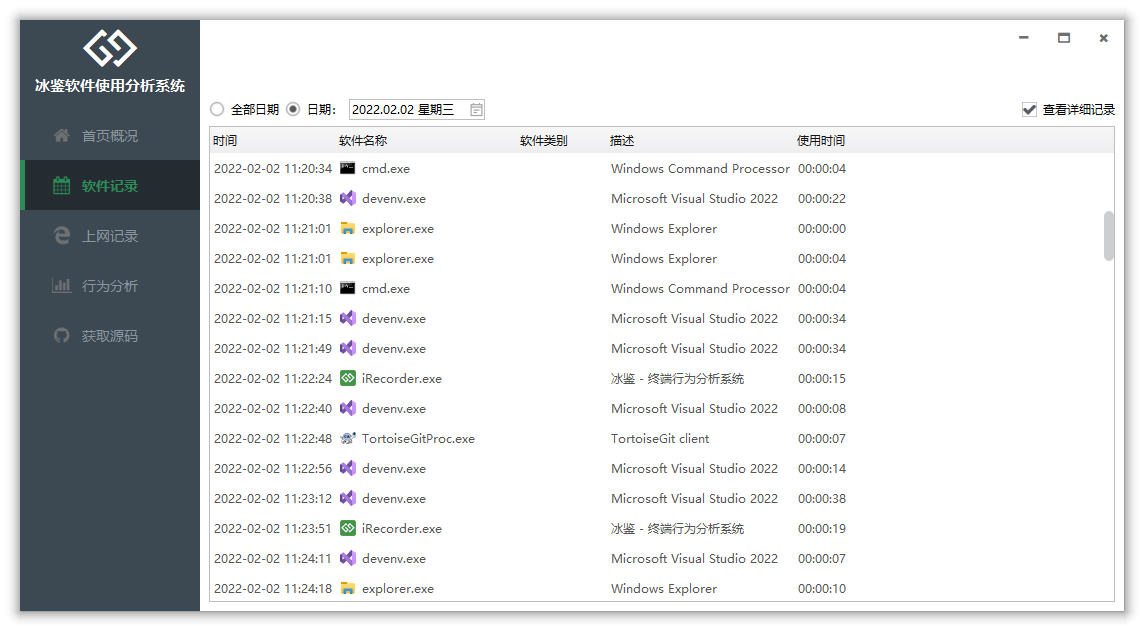
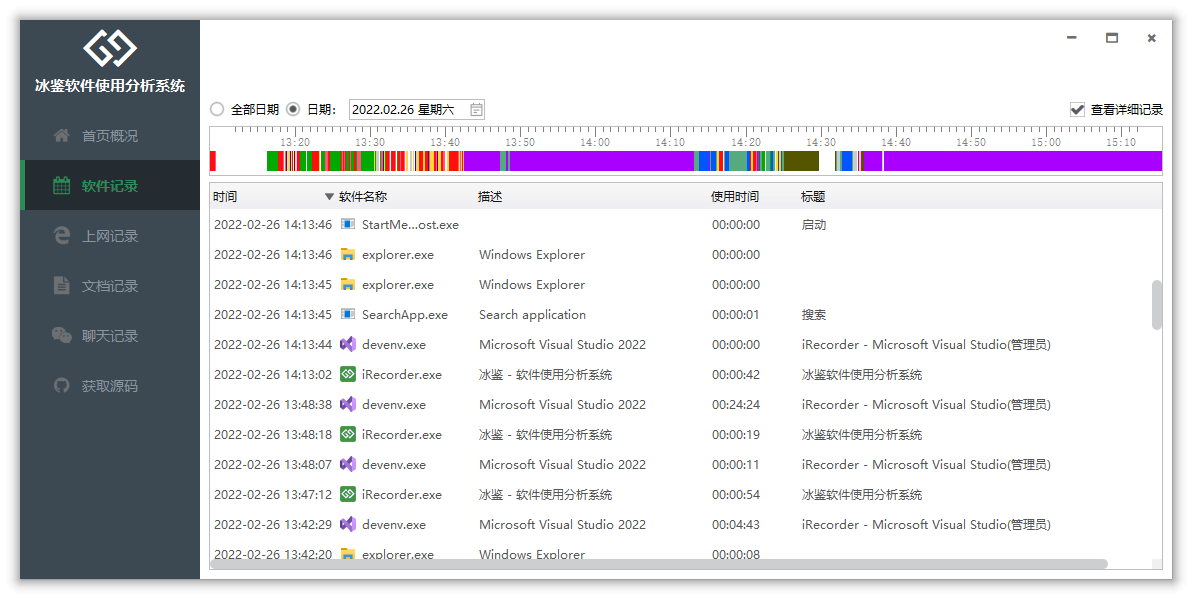
add iRecorder

diff --git a/docs/irecorder/SDK.md b/docs/irecorder/SDK.md
@@ -1,0 +1,103 @@
+---
+title: iRecorderSDK
+order: 1
+nav:
+  title: 冰鉴
+  order: 3
+---
+
+## 简介
+
+**iRecorderSDK** 是一款用于记录终端软件使用时间的开发套件。
+
+可以方便的统计用户软件、上网、操作文档、聊天的使用时间。适用于软件行为分析、上网行为分析等效率软件。可以分析工作是否频繁被打断，从而制定提供工作效率的软件。希望可以为远程工作建立一种信任机制，从而让远程工作可以更加普及。
+
+> iRecorderSDK 跟 [iMonitorSDK](https://iMonitorSDK.com) 的区别在于：一个是统计使用时间，一个是监控操作行为。
+
+### ✨ 具备如下特点
+
+- 监听软件的使用切换过程
+- 支持识别浏览器正在访问的网址
+- 支持识别Office正在操作的文档
+- 支持识别聊天工具正在聊天的对象
+- 使用旁路模式，不需要注入其他进程，百分百安全稳定
+- 支持扩展，如果需要识别更多的软件操作行为，可以通过扩展来识别
+
+### 📦 适用于如下的产品
+
+- 软件行为分析
+- 上网行为分析
+- 效率软件
+- 终端管理系统
+- 零信任远程办公系统
+
+## 🔨 快速入门
+
+```c++
+class RecorderCallback : public IWindowMonitorCallback
+{
+public:
+	RecorderCallback()
+	{
+		m_ConsoleHandle = GetStdHandle(STD_OUTPUT_HANDLE);
+	}
+
+	void OnWindowChanged(WindowInfo* window, WindowInfo* new_window) override
+	{
+		if (!window->Window || !window->Process)
+			return;
+
+		LPCWSTR process_info = window->Process->FileDescription;
+		if (!process_info || !process_info[0]) {
+			process_info = window->Process->ProcessName;
+		}
+
+		printf("%6d [PID:%6d] %S\n", window->Duration, window->ProcessId, process_info);
+
+		if (window->ExtensionType != emWindowExtensionNone) {
+			SetConsoleTextAttribute(m_ConsoleHandle, FOREGROUND_GREEN | FOREGROUND_INTENSITY);
+			printf("\t\t>>> %S\n", window->ExtensionUrl);
+			SetConsoleTextAttribute(m_ConsoleHandle, FOREGROUND_RED | FOREGROUND_GREEN | FOREGROUND_BLUE);
+		}
+	}
+
+	void OnWindowContinued(WindowInfo* window) override
+	{
+	}
+
+protected:
+	HANDLE m_ConsoleHandle = NULL;
+};
+
+int main(int argc, const char* argv[])
+{
+	setlocale(LC_ALL, "");
+
+	Recorder recoder;
+
+	HRESULT hr = recoder.Initialize();
+
+	if (hr != S_OK)
+		return 0;
+
+	RecorderCallback callback;
+	hr = recoder.StartWindowMonitor(&callback);
+
+	if (hr != S_OK)
+		return 0;
+
+	WaitForSingleObject(GetCurrentThread(), INFINITE);
+
+	recoder.StopWindowMonitor();
+
+	return 0;
+}
+```
+
+![](./sample.png)
+
+## 使用授权
+
+任何合法的软件都可以免费使用本SDK，同时自行承担由此引发的隐私争议、其他未知风险。
+
+对于需要源码的，可以联系 admin@iMonitorSDK.com 购买。

diff --git a/docs/irecorder/index.md b/docs/irecorder/index.md
@@ -21,13 +21,19 @@ nav:
 - 记录的是每个软件是实际操作时间，而不是进程的运行时间。
 - 记录的是通过浏览器上网的地址，而不是其他途径访问的网络。
 - 可以记录每个软件的使用切换好像，分析工作是否频繁被打断。
+- **可以分析统计正在操作的Office文档路径**
+- **可以分析统计正在聊天的用户**
 
 ## 软件截图
 ![](./main.png)
 ![](./soft.png)
 ![](./soft_detail.png)
 ![](./url.png)
+![](./url_detail.png)
+![](./office.png)
+![](./im.png)
 
 <div class = "md_footer" >
-  <a href = "https://github.com/wecooperate/iRecorder"> <button class="main-button"> 获取源码 </button></a>
+  <a href = "https://github.com/wecooperate/iRecorder"> <button> 获取源码 </button></a>
+  <a href = "/publish/iRecorderInstaller.exe"> <button class="main-button"> 下载软件 </button></a>
 </div>

diff --git a/docs/about.md b/docs/about.md
@@ -11,7 +11,6 @@ nav:
 
 创信长荣科技的团队来自国内头部互联网公司，具备十多年安全底层开发经验、架构设计能力，对企业安全业务有着深刻的理解。 是一家致力于为企业管理提供基础服务、一体化管理平台，力争成为企业管理入口，促进企业管理标准化、数字化的企业。
 
-<br/>
 
 ## [联系我们](mailto://admin@iMonitorSDK.com)
 
